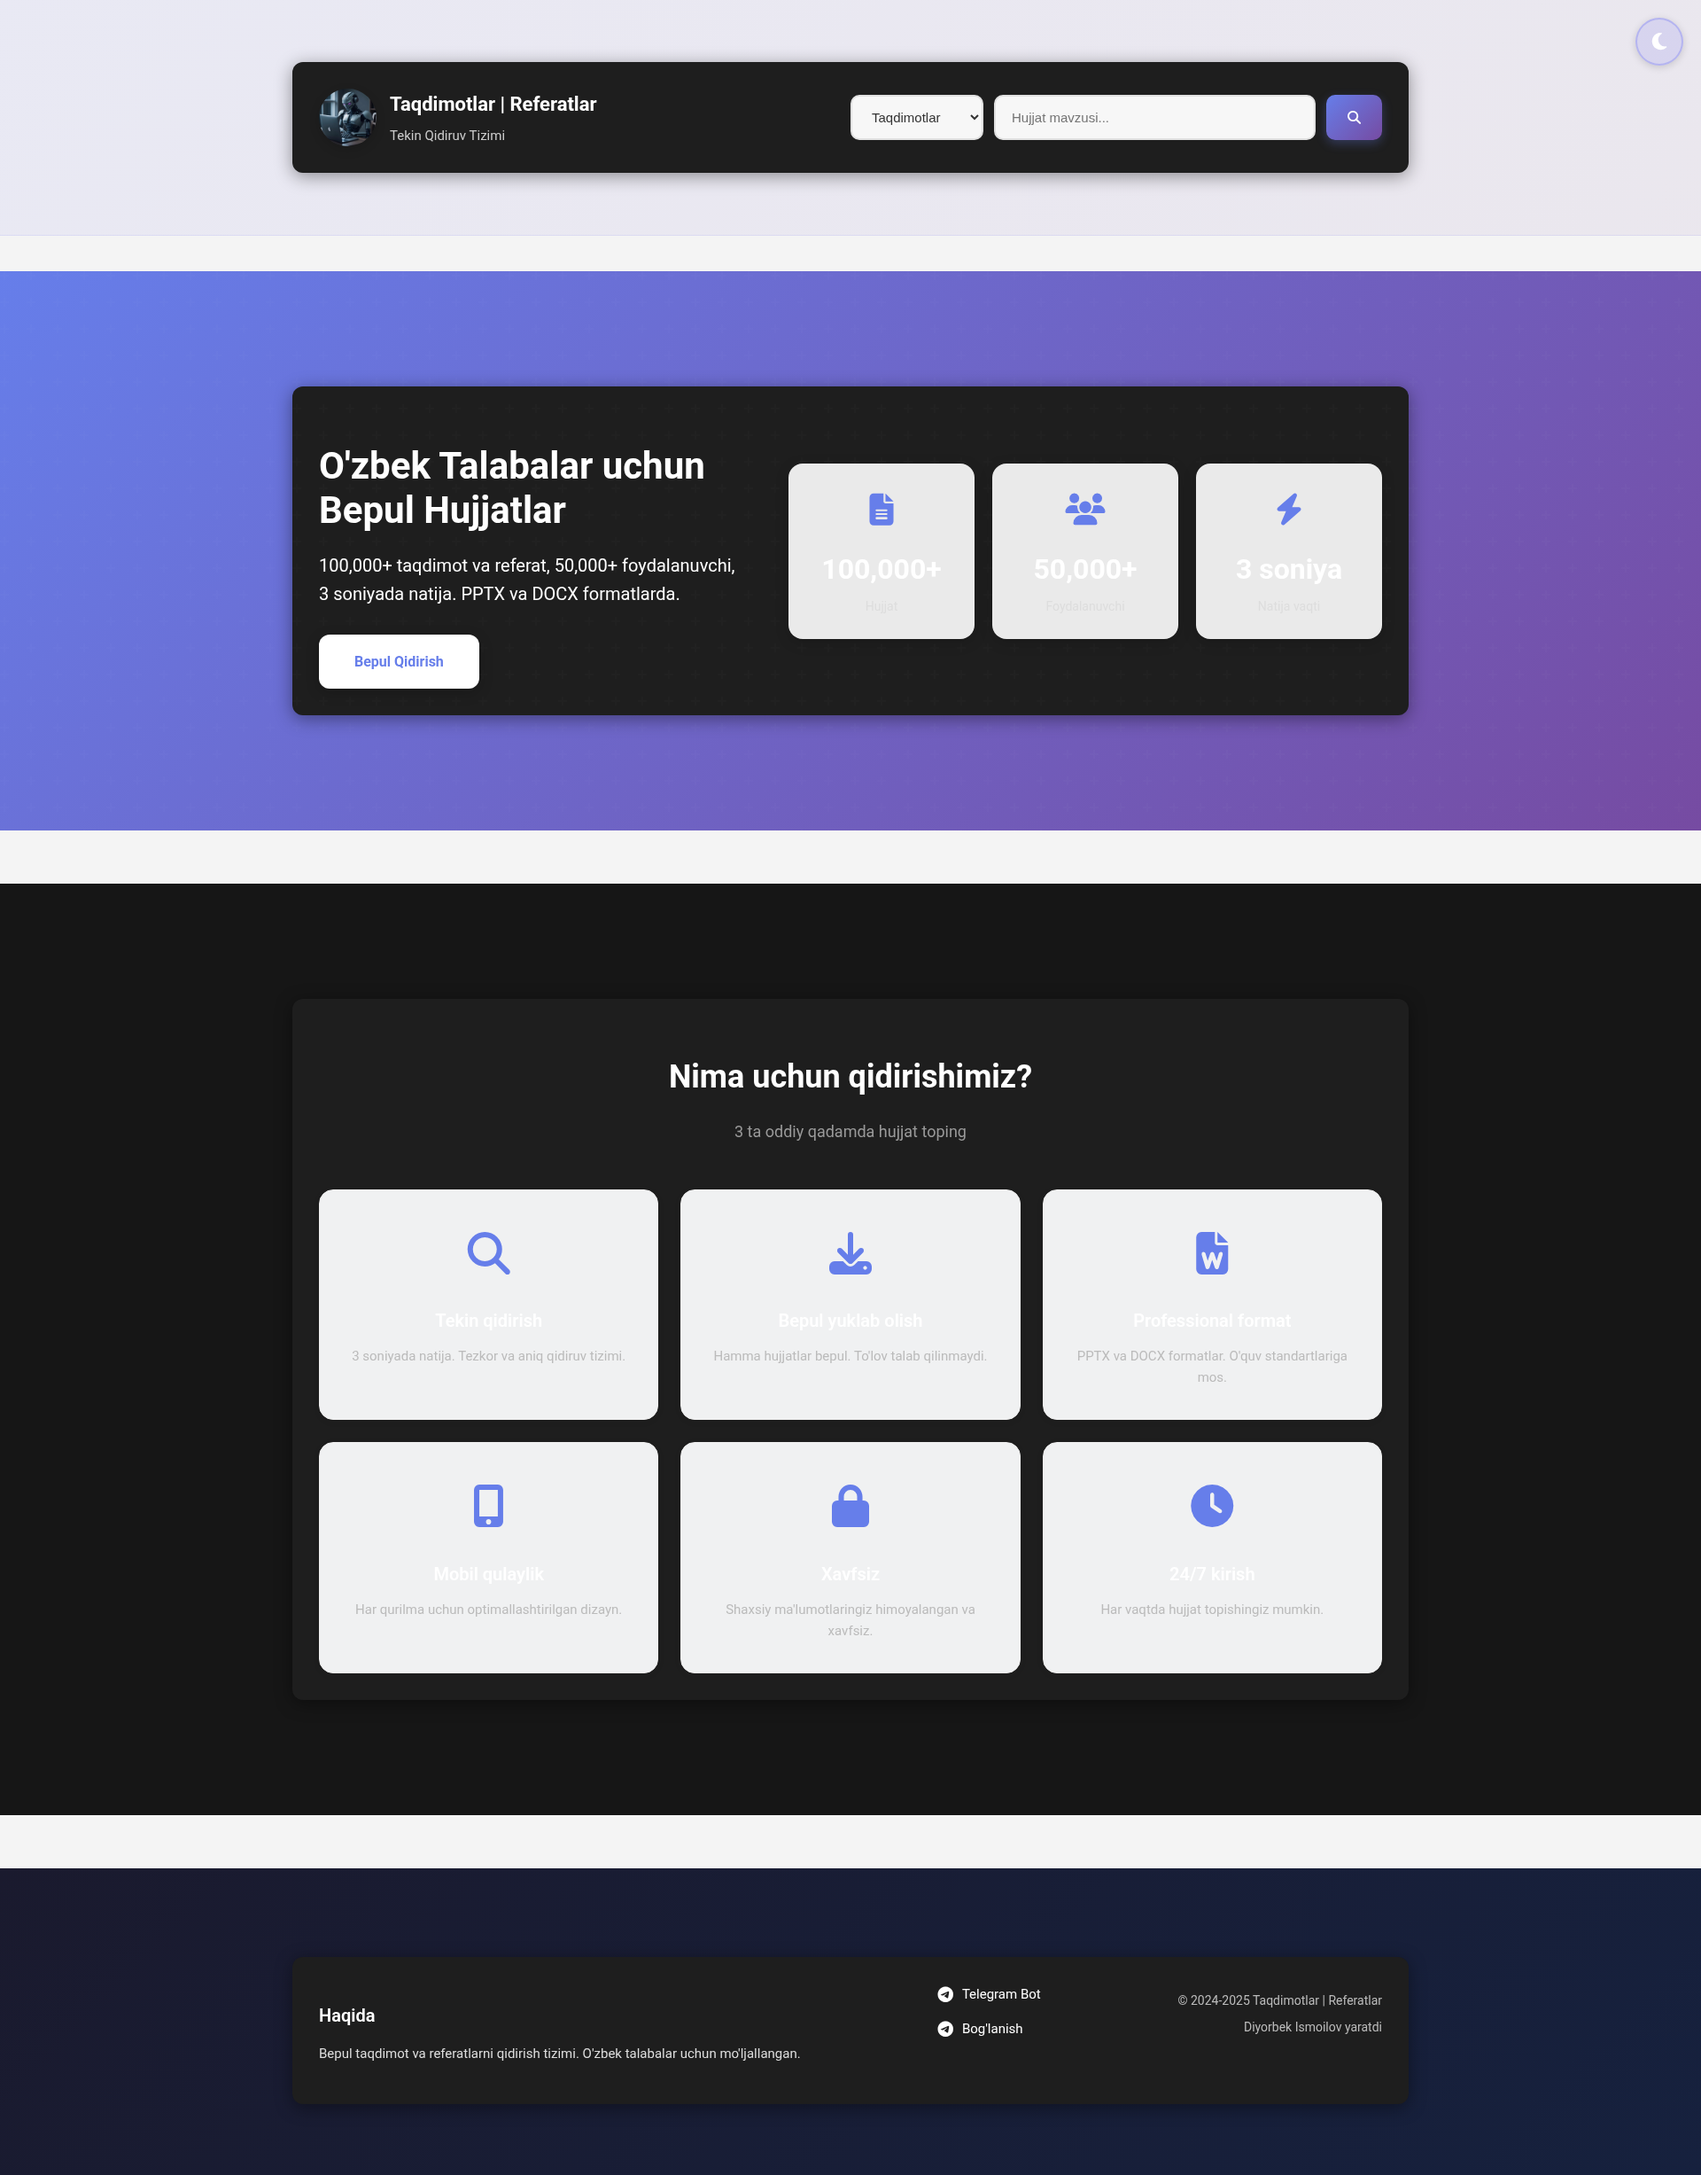
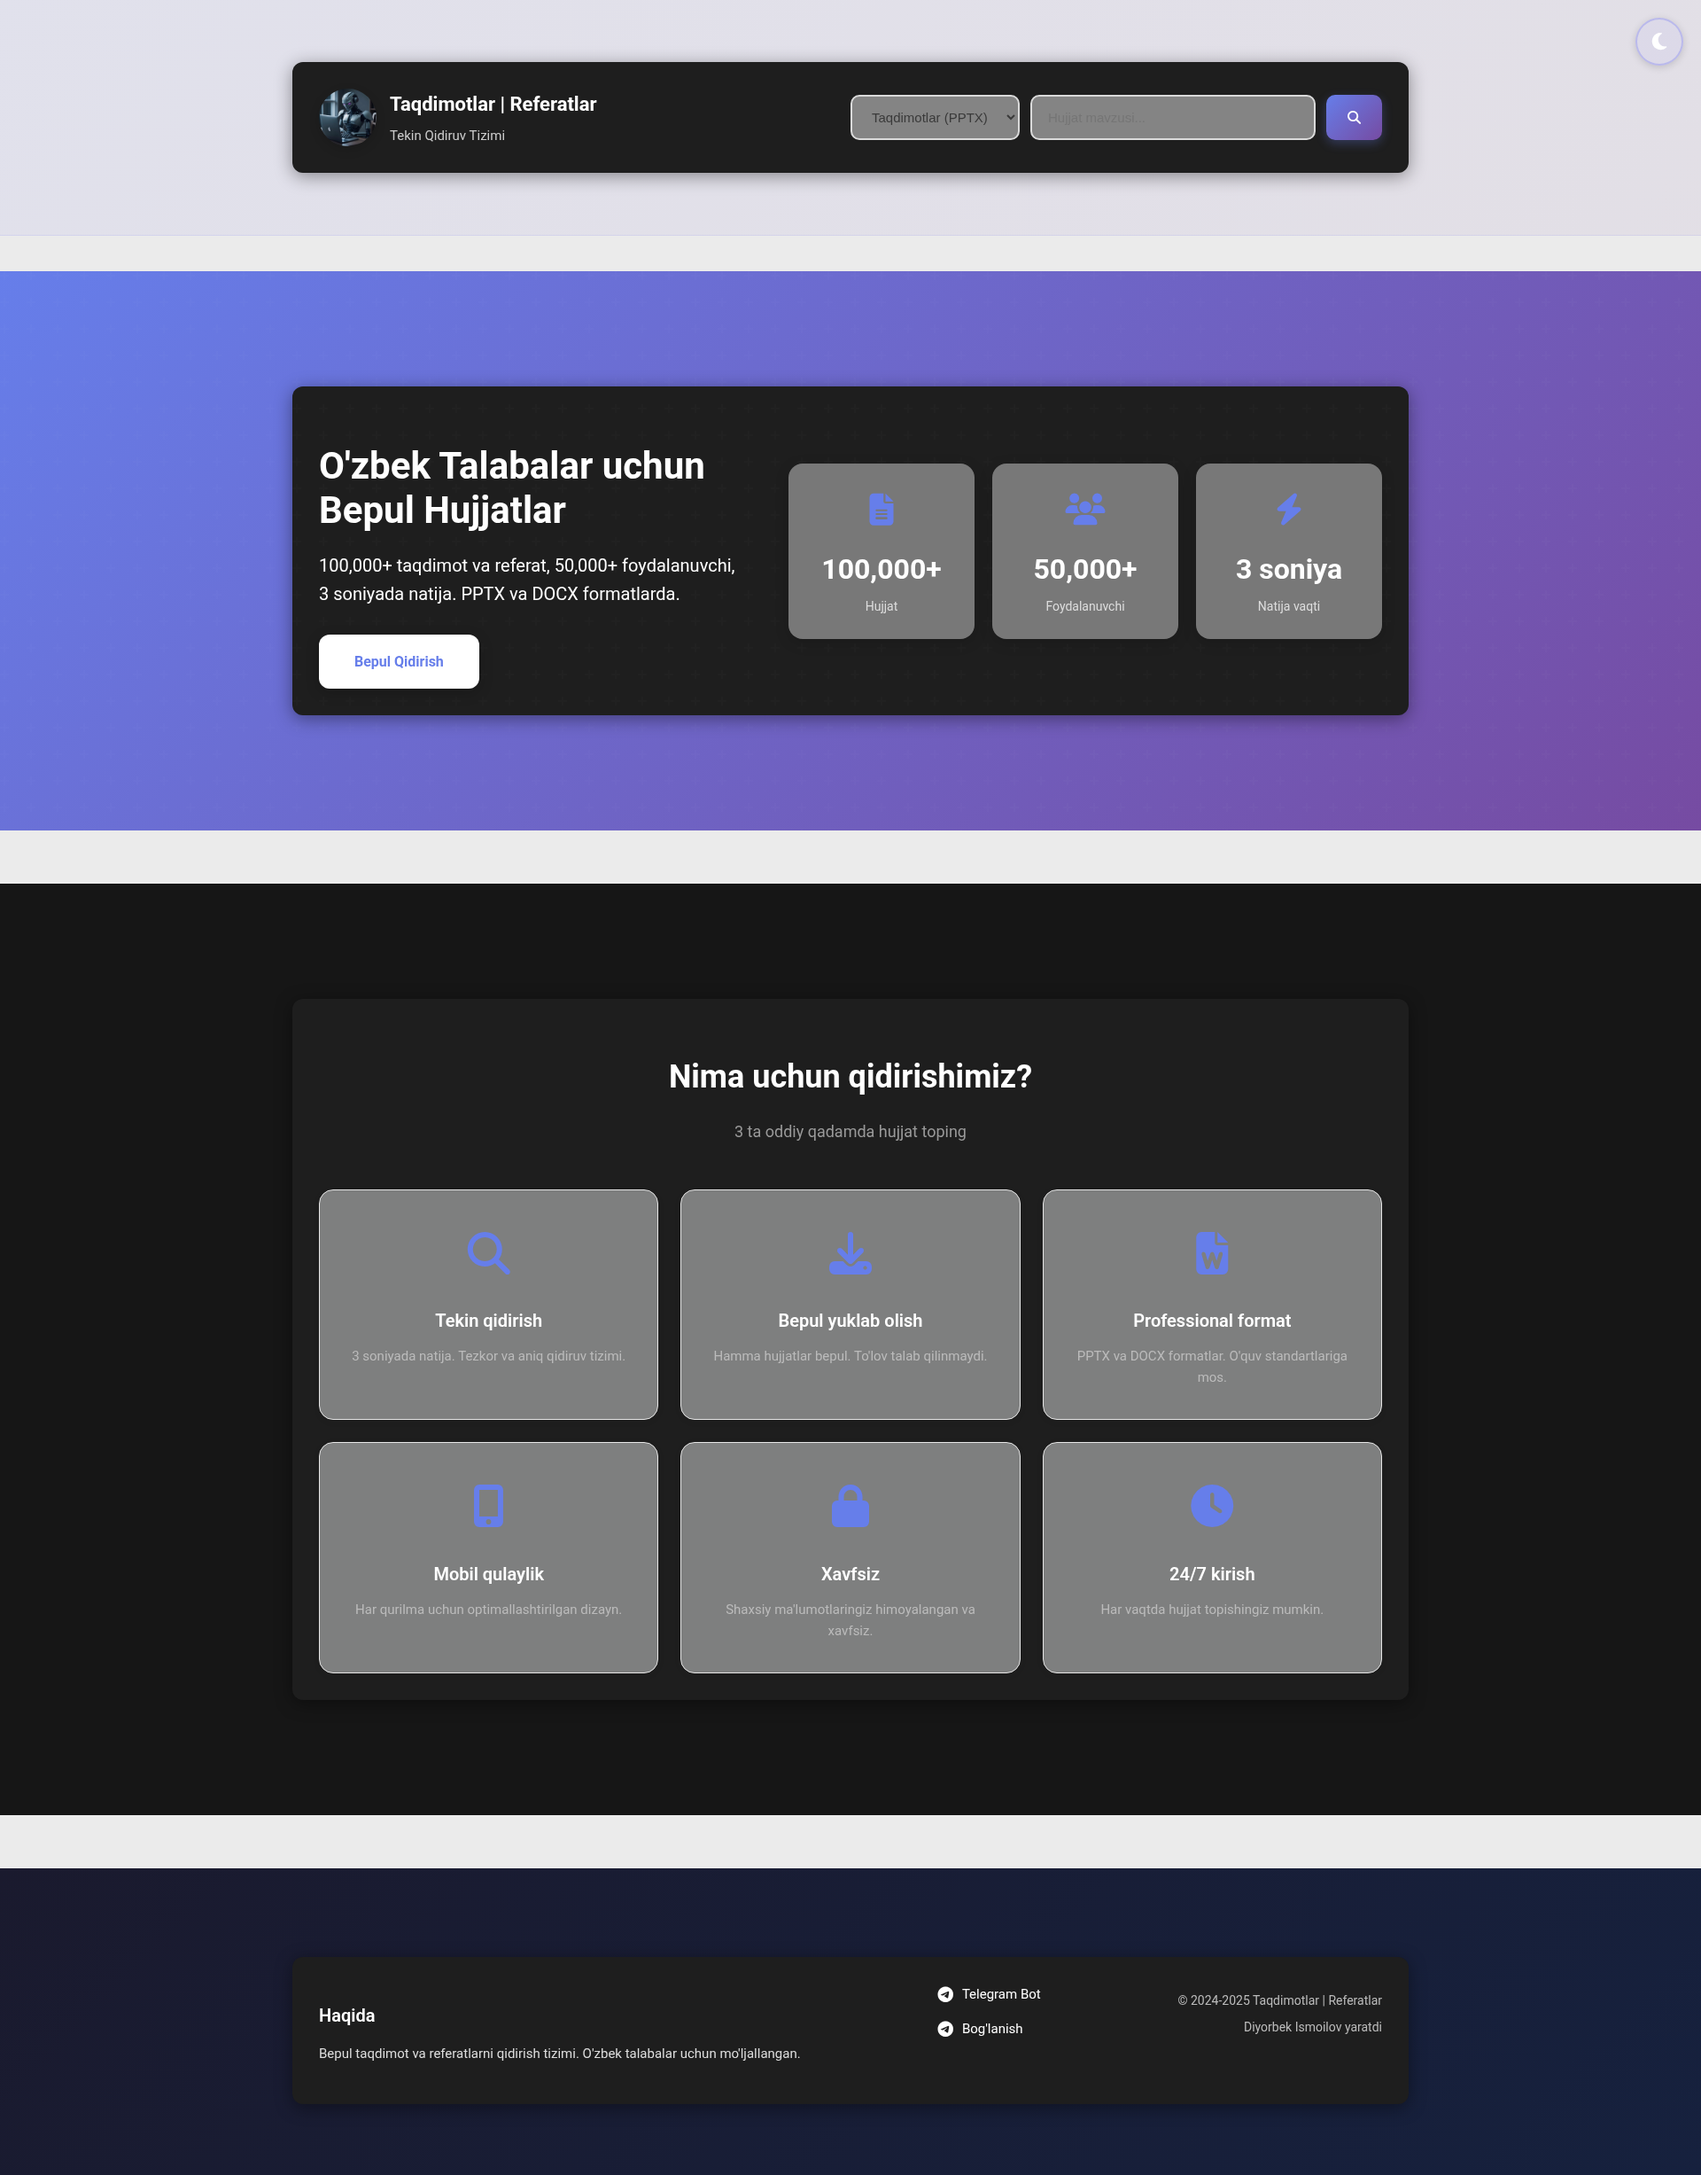
Add all document types and reposition search results
- Added all available types: pptx, docx, test, crossword, kurs_ishi
- Updated type selector with new categories
- Added type labels for display (Taqdimot, Referat, Test, Krossvord, Kurs ishi)
- Added distinct color gradients for each type:
  * pptx: purple gradient
  * docx: pink/red gradient
  * test: blue/cyan gradient
  * crossword: green gradient
  * kurs_ishi: orange/yellow gradient
- Moved search results display BEFORE hero section
- Updated search form handler to use direct type values
- Updated no results display position
- Updated screenshots

Changed region(s): [[0.1875, 0.5265, 0.8125, 0.7742], [0.4375, 0.1858, 0.8125, 0.3097], [0.5, 0.031, 0.7812, 0.0619]]

diff --git a/script.js b/script.js
@@ -33,6 +33,15 @@ async function searchDocuments(text, type = null, page = 1, pageSize = 10) {
     }
 }
 
+// Type labels for display
+const typeLabels = {
+    'pptx': 'Taqdimot',
+    'docx': 'Referat',
+    'test': 'Test',
+    'crossword': 'Krossvord',
+    'kurs_ishi': 'Kurs ishi'
+};
+
 async function getItemCount() {
     try {
         const response = await fetch(`${API_BASE_URL}/items/count`);
@@ -66,18 +75,14 @@ searchForm.addEventListener('submit', async (e) => {
     submitBtn.disabled = true;
 
     try {
-        // Map category to type
-        const typeMap = {
-            'taqdimotlar': 'taqdimotlar',
-            'referatlar': 'referatlar'
-        };
-        const type = typeMap[category] || null;
+        // Use category directly (pptx, docx, test, crossword, kurs_ishi)
+        const type = category || null;
 
         // Search documents
         const results = await searchDocuments(query, type);
 
-        // Display results
-        displayResults(results, query, type);
+        // Display results before hero section
+        displayResultsBeforeHero(results, query, type);
 
     } catch (error) {
         console.error('Search error:', error);
@@ -89,8 +94,8 @@ searchForm.addEventListener('submit', async (e) => {
     }
 });
 
-// Display Results
-function displayResults(results, query, type) {
+// Display Results (before hero section)
+function displayResultsBeforeHero(results, query, type) {
     // Remove existing results container if exists
     const existingResults = document.getElementById('searchResults');
     if (existingResults) {
@@ -123,10 +128,11 @@ function displayResults(results, query, type) {
 
     // Add result cards
     results.forEach(item => {
+        const displayType = typeLabels[item.type] || item.type || 'Hujjat';
         const card = document.createElement('div');
         card.className = 'result-card';
         card.innerHTML = `
-            <div class="result-type">${item.type || type || 'Hujjat'}</div>
+            <div class="result-type type-${item.type}">${displayType}</div>
             <div class="result-text">${item.text}</div>
             <div class="result-meta">
                 <span>ID: ${item.id}</span>
@@ -140,15 +146,15 @@ function displayResults(results, query, type) {
 
     resultsContainer.appendChild(resultsGrid);
 
-    // Insert after hero section
+    // Insert before hero section
     const heroSection = document.querySelector('.hero-section');
-    heroSection.parentNode.insertBefore(resultsContainer, heroSection.nextSibling);
+    heroSection.parentNode.insertBefore(resultsContainer, heroSection);
 
     // Scroll to results
     resultsContainer.scrollIntoView({ behavior: 'smooth', block: 'start' });
 }
 
-// Show No Results
+// Show No Results (before hero section)
 function showNoResults(query) {
     const resultsContainer = document.createElement('div');
     resultsContainer.id = 'searchResults';
@@ -173,8 +179,9 @@ function showNoResults(query) {
         </div>
     `;
 
+    // Insert before hero section
     const heroSection = document.querySelector('.hero-section');
-    heroSection.parentNode.insertBefore(resultsContainer, heroSection.nextSibling);
+    heroSection.parentNode.insertBefore(resultsContainer, heroSection);
     resultsContainer.scrollIntoView({ behavior: 'smooth', block: 'start' });
 }
 

diff --git a/index.html b/index.html
@@ -126,8 +126,12 @@
                 <!-- Search Form -->
                 <form id="searchForm" method="GET" action="/">
                     <select id="categorySelect" name="category" required aria-label="Kategoriya">
-                        <option value="taqdimotlar" selected>Taqdimotlar</option>
-                        <option value="referatlar">Referatlar</option>
+                        <option value="pptx" selected>Taqdimotlar (PPTX)</option>
+                        <option value="docx">Referatlar (DOCX)</option>
+                        <option value="test">Testlar</option>
+                        <option value="crossword">Krossvordlar</option>
+                        <option value="kurs_ishi">Kurs ishlari</option>
+                        <option value="">Barchasi</option>
                     </select>
                     <input type="text" id="searchInput" name="q" placeholder="Hujjat mavzusi..." required aria-label="Qidiruv">
                     <button type="submit" aria-label="Qidirish"><i class="fas fa-search"></i></button>

diff --git a/styles.css b/styles.css
@@ -687,6 +687,27 @@ body.dark-mode .result-card {
     margin-bottom: 15px;
 }
 
+/* Different type colors */
+.result-type.type-pptx {
+    background: linear-gradient(135deg, #667eea 0%, #764ba2 100%);
+}
+
+.result-type.type-docx {
+    background: linear-gradient(135deg, #f093fb 0%, #f5576c 100%);
+}
+
+.result-type.type-test {
+    background: linear-gradient(135deg, #4facfe 0%, #00f2fe 100%);
+}
+
+.result-type.type-crossword {
+    background: linear-gradient(135deg, #43e97b 0%, #38f9d7 100%);
+}
+
+.result-type.type-kurs_ishi {
+    background: linear-gradient(135deg, #fa709a 0%, #fee140 100%);
+}
+
 .result-text {
     font-size: 16px;
     color: #222;
